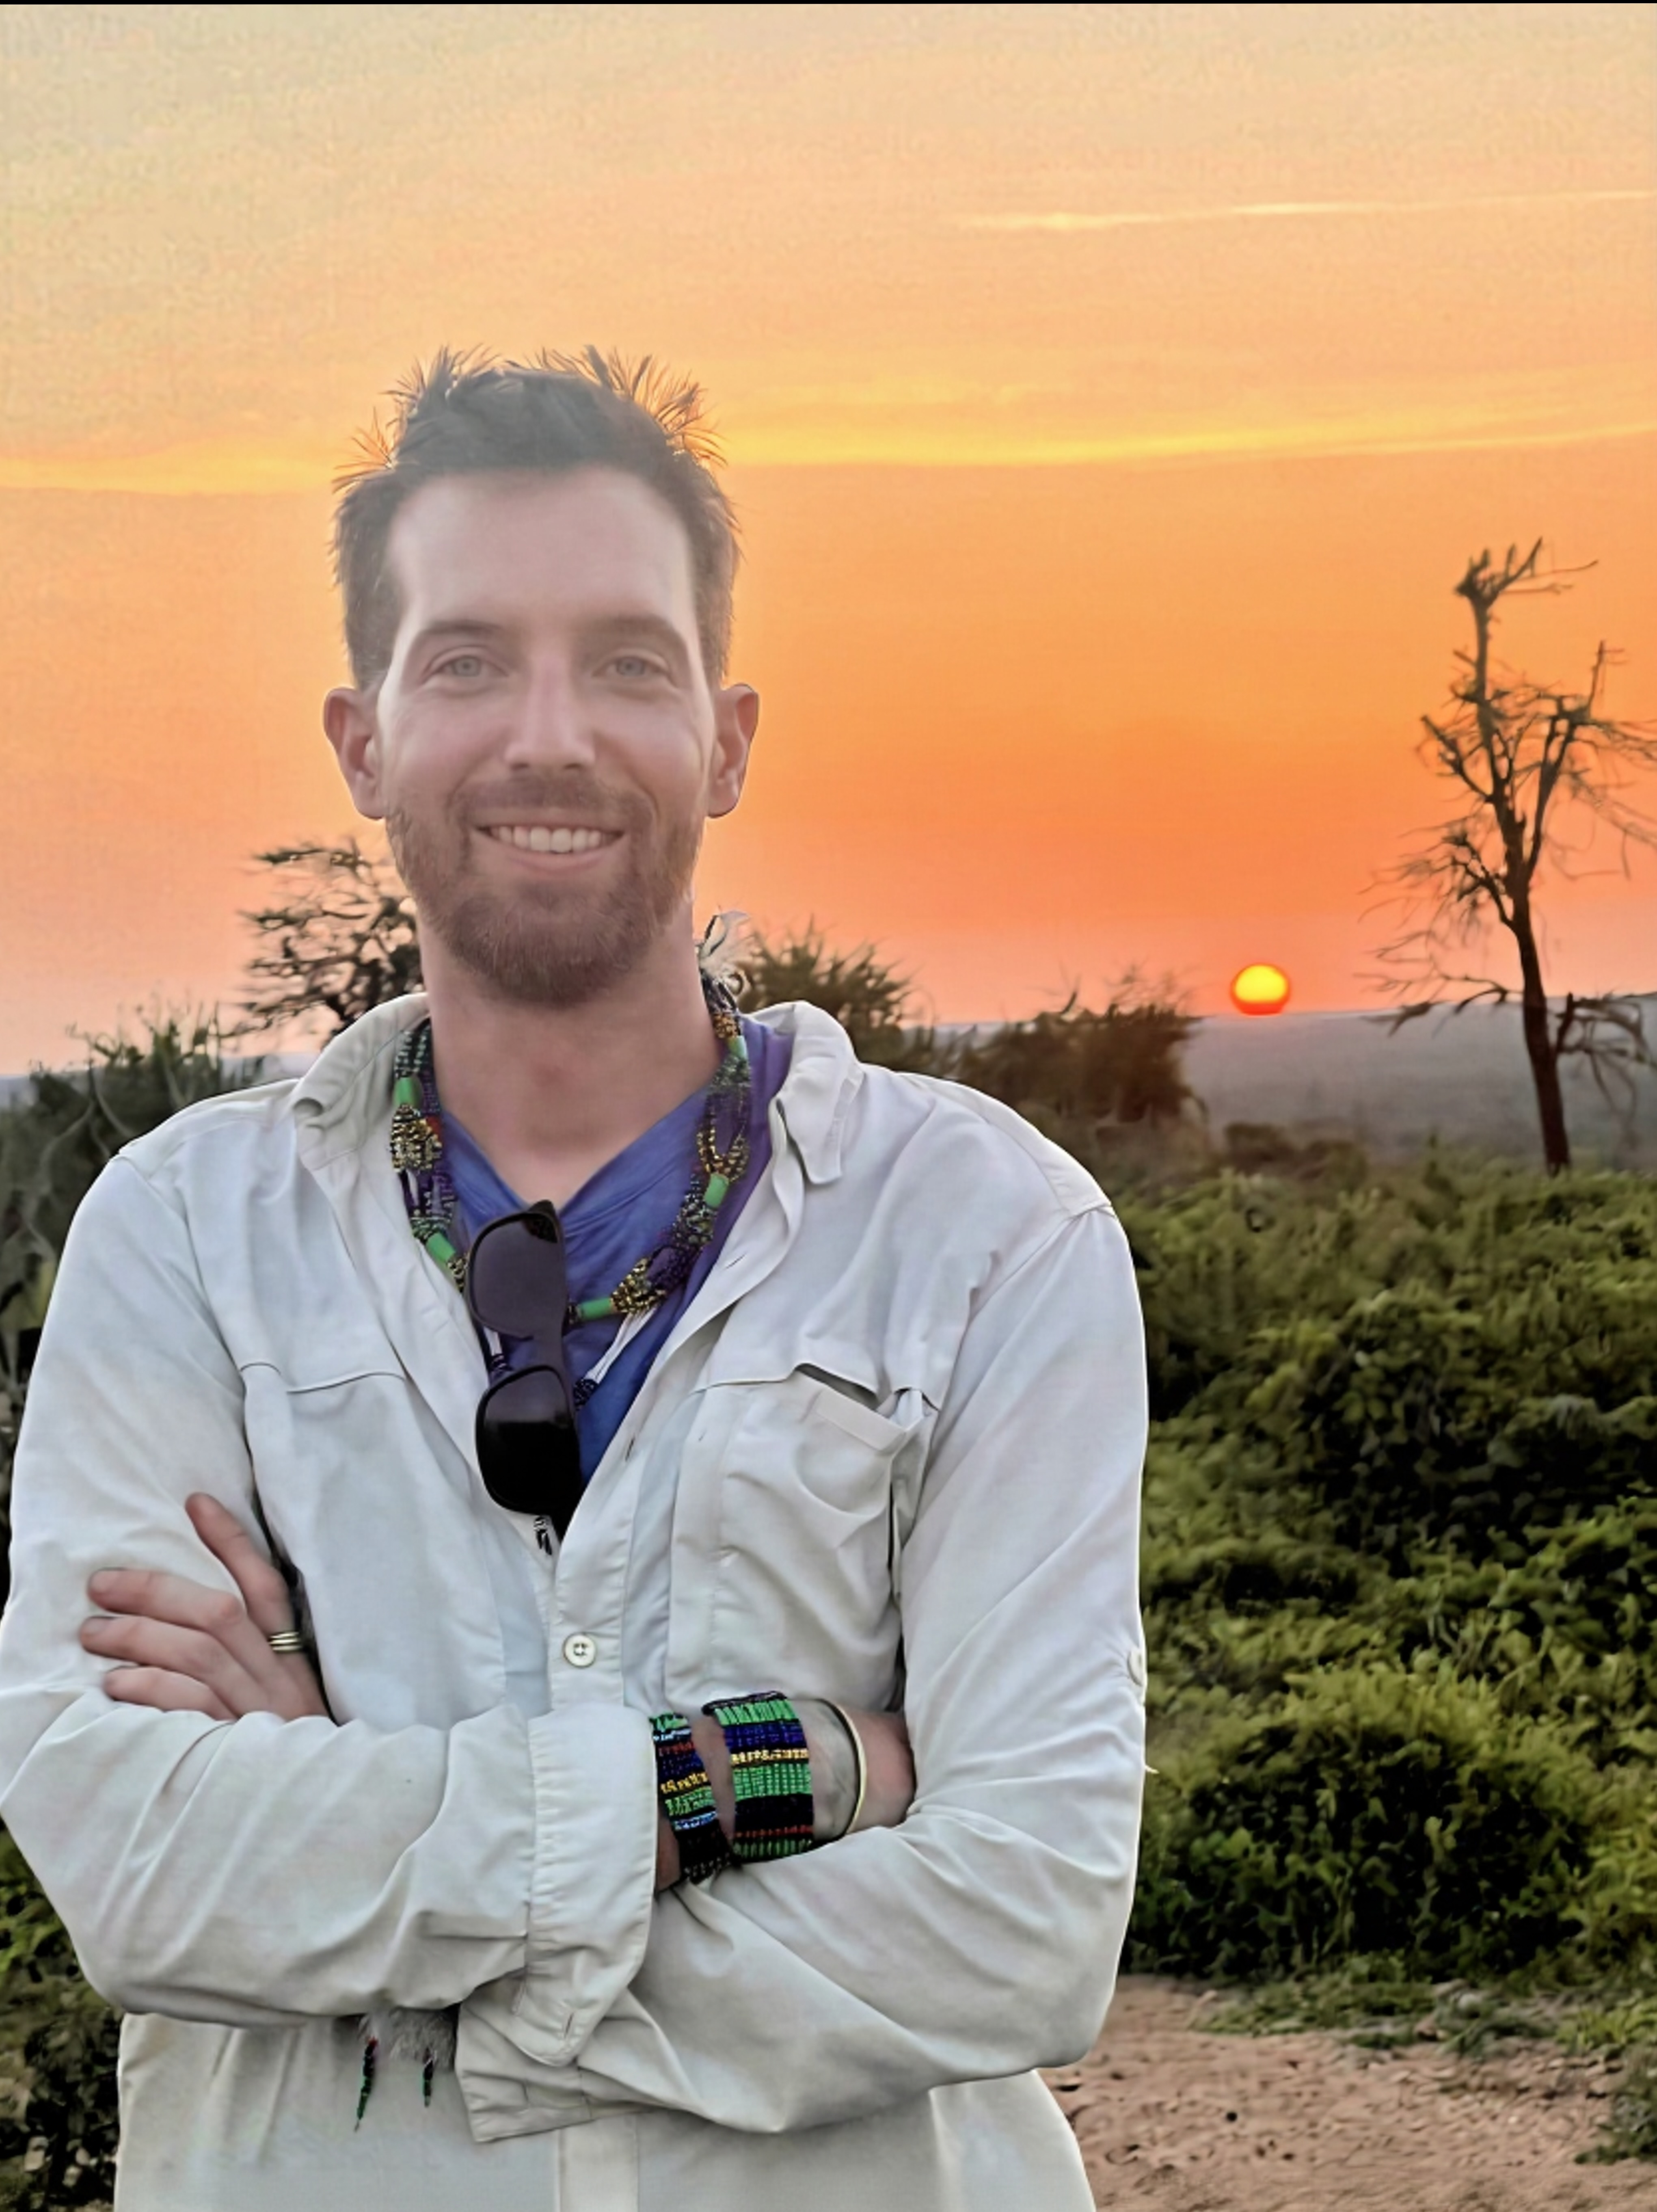
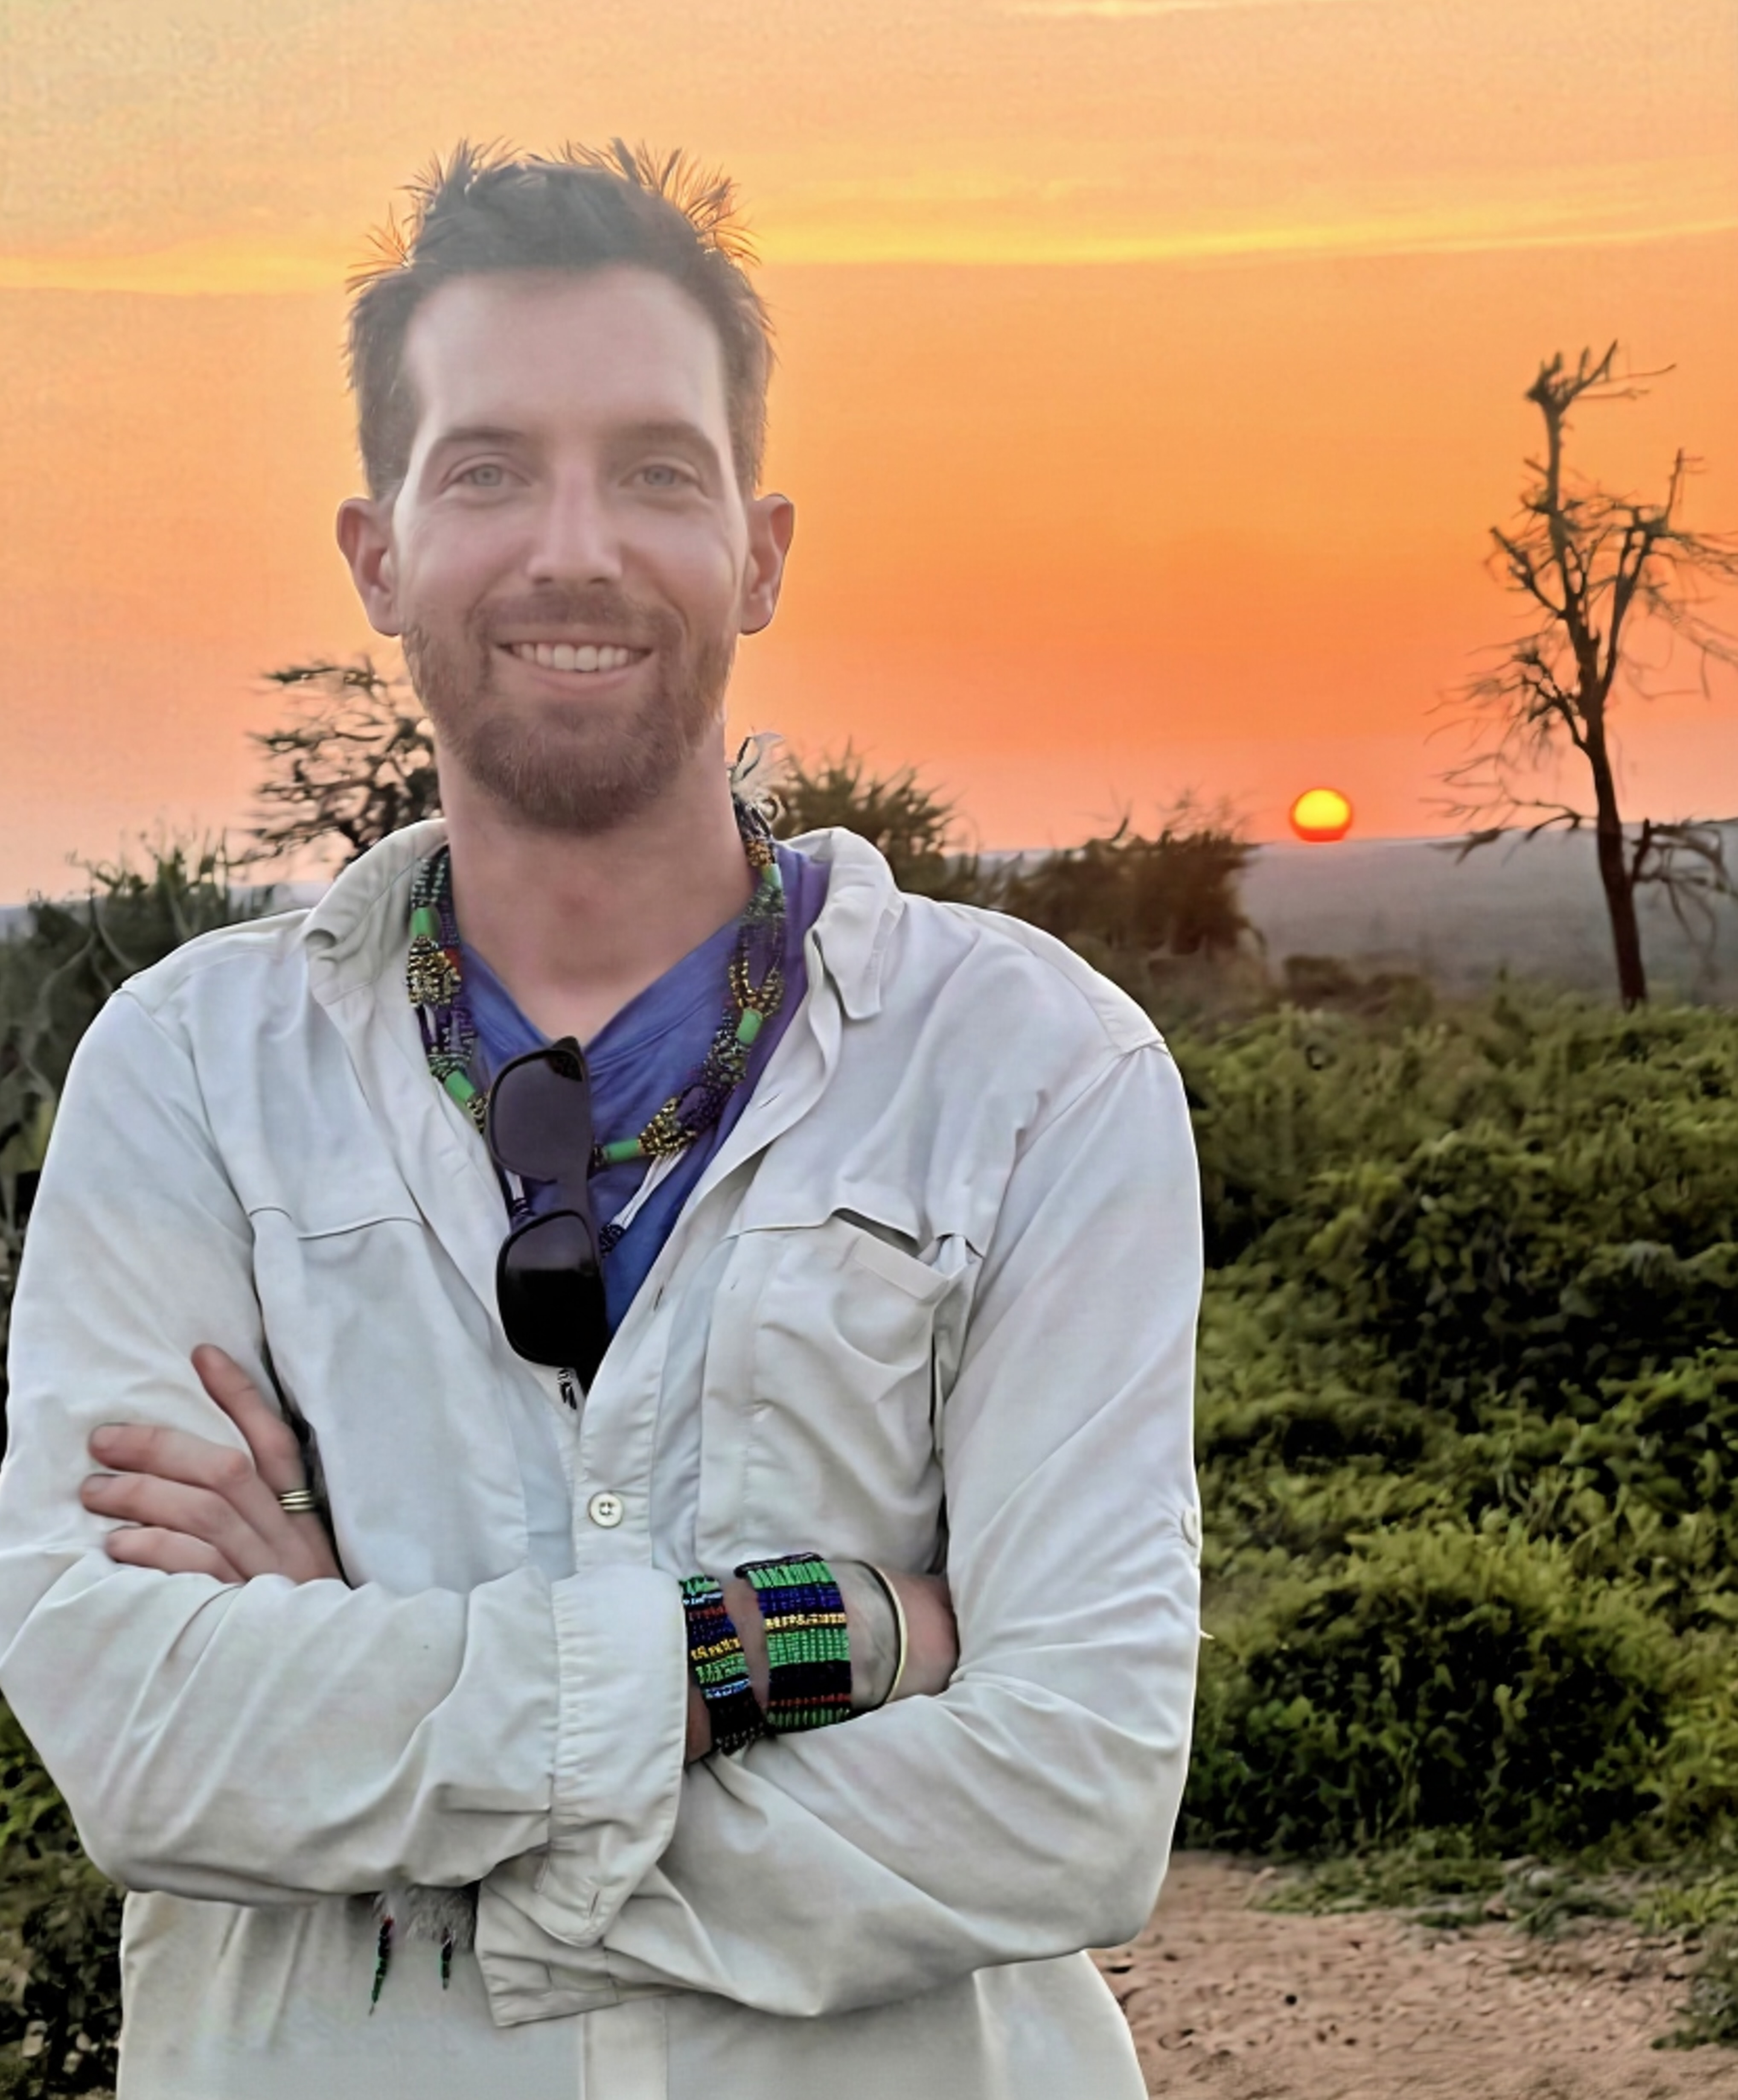
update page or, resize pic

diff --git a/_pages/philosophy.md b/_pages/philosophy.md
@@ -3,8 +3,7 @@ layout: page
 permalink: /philosophy/
 title: philosophy
 description: How I think about doing science, and why.
-nav: true
-nav_order: 4
+nav: false
 ---
 
 I value quantitative, multidisciplinary approaches in the human sciences, built on sound theoretical foundations. I'm a proponent of open science, and of coupling confirmatory and exploratory analyses.

diff --git a/_pages/cv.md b/_pages/cv.md
@@ -3,7 +3,7 @@ layout: cv
 permalink: /cv/
 title: CV
 nav: true
-nav_order: 5
+nav_order: 6
 cv_pdf: /assets/pdf/example_pdf.pdf # you can also use external links here
 cv_format: rendercv # options: rendercv, jsonresume
 description: This is a description of the page. You can modify it in '_pages/cv.md'. You can also change or remove the top pdf download button.

diff --git a/_pages/fieldwork.md b/_pages/fieldwork.md
@@ -4,7 +4,7 @@ permalink: /fieldwork/
 title: fieldwork
 description: Ethnographic research in southwest Ethiopia since 2015.
 nav: true
-nav_order: 3
+nav_order: 2
 ---
 
 I've conducted ethnographic fieldwork in southwest Ethiopia for over a decade, including among many distinct ethnolinguistic communities. The work began with the Chabu forager-horticulturalists of the Sheka forests, where I study traditional and contemporary leadership among women and men in this relatively egalitarian society.

diff --git a/_pages/publications.md b/_pages/publications.md
@@ -4,7 +4,7 @@ permalink: /publications/
 title: publications
 description: Select publications in reversed chronological order.
 nav: true
-nav_order: 1
+nav_order: 3
 ---
 
 <!-- _pages/publications.md -->

diff --git a/_pages/repositories.md b/_pages/repositories.md
@@ -4,7 +4,7 @@ permalink: /repositories/
 title: repositories
 description:
 nav: true
-nav_order: 8
+nav_order: 5
 ---
 
 {% if site.data.repositories.github_users %}

diff --git a/_pages/research.md b/_pages/research.md
@@ -4,7 +4,7 @@ permalink: /research/
 title: research
 description: The mechanisms of sociality underpinning human uniqueness.
 nav: true
-nav_order: 2
+nav_order: 1
 ---
 
 I study how cooperation is organized and sustained in human societies. Specifically, how social influence is distributed, how norms are enforced and transmitted, and how individuals navigate risk through their social relationships. I work at three scales: long-term ethnographic fieldwork in southwest Ethiopia, comparative analysis using global ethnographic databases, and computational modeling. Together these test evolutionary theory against empirical data from culturally diverse, subsistence-based populations.

diff --git a/_pages/teaching.md b/_pages/teaching.md
@@ -4,7 +4,7 @@ permalink: /teaching/
 title: teaching
 description: Course materials, schedules, and resources for classes taught.
 nav: true
-nav_order: 6
+nav_order: 4
 calendar: true
 ---
 